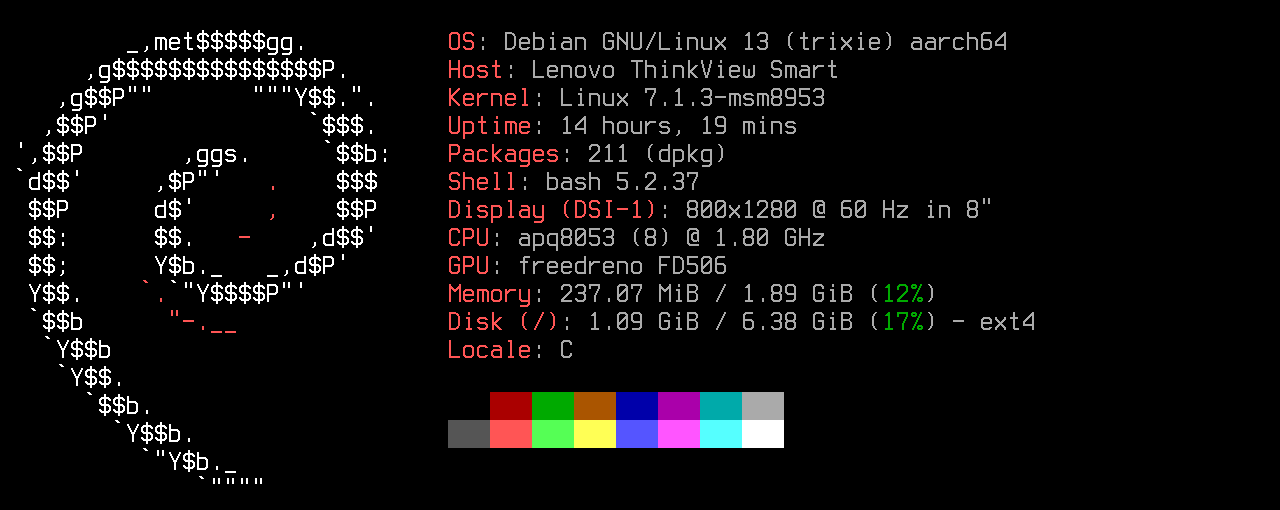
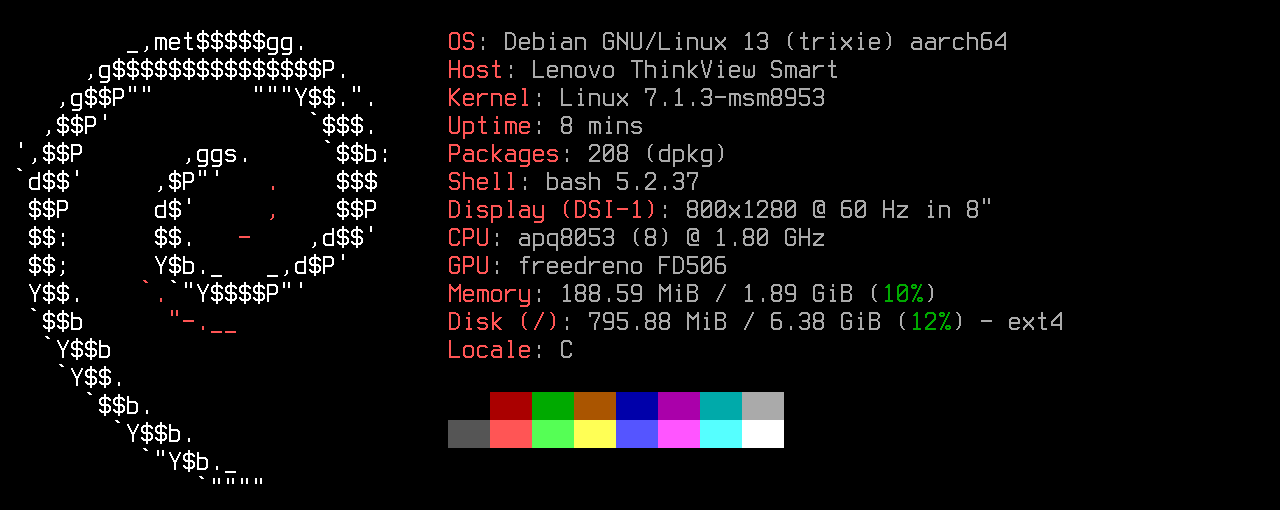
Proximity works; figures measured on a fresh flash
- thinksmart-light sets the VCNL4200 proximity part to its most sensitive
  setting (9T, 8 pulses, 200 mA): with the driver defaults it reads 0 behind
  the cover glass. The missing vled supply was not the cause.
- Measured hand distances in hardware.md, known-issues.md and the driver README.
- known-issues: poweroff turns the device back on; no battery-backed clock.
- README: ~190 MB RAM, ~470 MB on disk, ~24 s boot, new screenshot, all
  measured right after flashing this image.

Changed region(s): [[0.4375, 0.5588, 0.8438, 0.6471], [0.4375, 0.2353, 0.625, 0.3235], [0.6875, 0.5588, 0.7188, 0.5882]]

diff --git a/README.md b/README.md
@@ -30,14 +30,14 @@ application:
 
 | | |
 |---|---|
-| 🪶 **~230 MB of RAM** | used by the whole system, kernel included, with no application running: ~1.7 GB left for yours |
-| 📦 **208 Debian packages** | ~530 MB on disk with kernel modules and GPU drivers; the compressed image is ~190 MB |
+| 🪶 **~190 MB of RAM** | used by the whole system, kernel included, with no application running: ~1.7 GB left for yours |
+| 📦 **208 Debian packages** | ~470 MB on disk with kernel modules and GPU drivers; the compressed image is ~190 MB |
 | ⚙ **A handful of services** | systemd, journald, udev, NetworkManager, wpa_supplicant, ssh, timesyncd, nftables, plus the audio and light sensor setup. No desktop, no display server, no browser |
-| ⏱ **~25 s boot** | from power on to ssh (16 s kernel and initramfs, 9 s userspace) |
+| ⏱ **~24 s boot** | from power on to ssh (16 s kernel and initramfs, 7 s userspace) |
 | 🎮 **GPU without the weight** | Mesa built for this GPU only and without LLVM: ~19 MB instead of the ~170 MB of Debian's Mesa |
 | 🧱 **Plain Debian** | apt and Debian's security updates, systemd, nothing custom to learn; the whole image comes from one script you can read |
 
-<sub>Measured on our device on 2026-11-03, with no application running (the screenshot above).</sub>
+<sub>Measured on our device on 2026-11-04, right after flashing this image, with no application running (the screenshot above).</sub>
 
 ## What works
 
@@ -49,7 +49,7 @@ application:
 | 🔊 **Speaker** | TAS5782M amplifier with the out-of-tree driver, hardware volume (`Speaker Amp Master`) |
 | 🎙 **Microphones** | two digital microphones, ready for wake word and speech recognition |
 | 📶 **Wi-Fi** | QCA9379 (ath10k), NetworkManager profile from the build config |
-| 🧭 **Sensors and keys** | BMA253 accelerometer (rotation), VCNL4200 ambient light, Vol+ / Vol− keys, camera shutter switch |
+| 🧭 **Sensors and keys** | BMA253 accelerometer (rotation), VCNL4200 ambient light and proximity, Vol+ / Vol− keys, camera shutter switch |
 | 🔒 **Access** | ssh with keys only, nftables firewall open only to your LAN |
 | 🚀 **Headless boot** | ready in ~25 s, survives without a keyboard (no emergency-mode dead ends) |
 | 🧩 **Your app on top** | a customization hook adds your application to the image at build time |
@@ -95,7 +95,7 @@ The full walkthrough (backup, lk2nd, kernel files, speaker driver, Mesa, build, 
 ## Roadmap
 
 - [x] Debian 13 image on the postmarketOS 7.1.3 kernel, headless boot
-- [x] Speaker, microphones, Wi-Fi, touch, accelerometer, light sensor, keys
+- [x] Speaker, microphones, Wi-Fi, touch, accelerometer, light and proximity sensor, keys
 - [x] Customization hook for applications
 - [x] Hardware volume of the TAS5782M amplifier
 - [ ] Faster boot (initramfs framebuffer wait)

diff --git a/docs/hardware.md b/docs/hardware.md
@@ -16,7 +16,7 @@ What we found on our unit (Himax panel variant) with the postmarketOS kernel 7.1
 | Accelerometer | **Bosch BMA253** (`bmc150_accel_i2c`), `/sys/bus/iio/devices/iio:device0`, `in_accel_{x,y,z}_raw`, scale 0.019154 m/s², identity mount matrix | ok. Upright on its stand: x ≈ 0, y ≈ -9.2 m/s², z ≈ +3 (+y points down like framebuffer rows, +z out of the screen, so +x points to the panel's left). Used for screen rotation; landscape orientations are derived, not verified |
 | Keys | Vol+ = `gpio-keys` (`event0`, `KEY_VOLUMEUP`), Vol− = `pm8941_resin` (`event1`, `KEY_VOLUMEDOWN`). **No power button**. The kernel does not autorepeat them | ok |
 | Camera shutter / mic switch | camera lens cover on GPIO 87 (`SW_CAMERA_LENS_COVER`, reported by `gpio-keys`), microphone switch on GPIO 86 (switch code 4; not on every unit) | readable with `EVIOCGSW` |
-| Light / proximity sensor | **Vishay VCNL4200** at 0x51 on the sensor I²C bus (`i2c-sensors`, with the accelerometer); upstream driver `vcnl4000`, IIO device named `vcnl4000`, `in_illuminance_raw` × `in_illuminance_scale` = lux | **light ok** with the out-of-tree module ([driver/vcnl4000](../driver/vcnl4000/README.md), optional part) declared at boot by `thinksmart-light.service` (no node in the postmarketOS device tree). **Proximity reads 0**: its IR LED supply (`vled`) is not in the device tree |
+| Light / proximity sensor | **Vishay VCNL4200** at 0x51 on the sensor I²C bus (`i2c-sensors`, with the accelerometer); upstream driver `vcnl4000`, IIO device named `vcnl4000`, `in_illuminance_raw` × `in_illuminance_scale` = lux | **light ok** with the out-of-tree module ([driver/vcnl4000](../driver/vcnl4000/README.md), optional part) declared at boot by `thinksmart-light.service` (no node in the postmarketOS device tree). **proximity ok** at short range (a hand within ~30 cm) with the settings applied by the same service |
 | Camera | **Samsung S5KC505A** (5 MP, 2608×1960, RAW10 GRBG, 2 MIPI lanes at 480 MHz, CCI address 0x37, chip ID 0x5034 at register 0x0000, fixed focus, mounted at 270°). Lenovo's camera config also lists OV5693 and S5K4E8 as alternative modules | **not working**: CAMSS and CCI exist in the kernel and DT but are disabled, no sensor node and no sensor driver in 7.1.3. jethac has a driver and a DT patch (raw frames captured on 7.3) |
 | Video decoder | `venus` | fails to start on 7.1.3 (-5) |
 | USB-C | data only | no USB gadget (no network over USB) and no host mode with this kernel |

diff --git a/driver/vcnl4000/README.md b/driver/vcnl4000/README.md
@@ -17,9 +17,20 @@ d=$(grep -l '^vcnl4000$' /sys/bus/iio/devices/iio:device*/name | xargs dirname)
 cat $d/in_illuminance_raw $d/in_illuminance_scale    # lux = raw x scale
 ```
 
-**Light works; proximity reads 0.** The infrared LED of the proximity part has its own supply (`vled`), which the
-Lenovo device tree turns on and the postmarketOS one does not know about, so the driver uses a dummy regulator and
-the LED stays dark. See [docs/known-issues.md](../../docs/known-issues.md).
+**Light and proximity both work.** With the driver's defaults (integration time 1T, one pulse) proximity reads 0
+behind the cover glass, so `thinksmart-light` sets the most sensitive values the driver offers:
+
+```sh
+echo 0.000864 > $d/in_proximity_integration_time   # 9T
+echo 8        > $d/in_proximity_oversampling_ratio  # 8 LED pulses per measurement
+echo 0.200000 > $d/in_proximity_calibbias           # LED current 200 mA
+cat $d/in_proximity_raw                             # counts / 16 (the driver divides by 16)
+```
+
+Measured on our device (counts = raw x 16): ~35 at rest, ~60-100 with a hand at 30 cm, ~100-170 at 10 cm, over 1500
+at 2-3 cm. The IR LED (faintly red to the eye) is on only while the sensor is being read: runtime PM shuts the
+proximity part down between reads, so a program polling it a few times per second keeps it lit, and nothing reading it
+keeps it dark.
 
 ## Building
 

diff --git a/docs/known-issues.md b/docs/known-issues.md
@@ -29,6 +29,10 @@
 - lk2nd supports a **single entry** in `extlinux.conf`.
 - Harmless messages: `Failed to set OPP config` on cpu0, `psci: failed to set PC mode`, `venus` -5.
 - No suspend.
+- **`poweroff` turns the device back on** after a few seconds while the power supply is plugged in (there is no
+  battery and no power button). To switch it off: `poweroff`, then unplug the power within ~10 s.
+- **No battery-backed clock**: until `systemd-timesyncd` gets the time from the network, the clock starts from the
+  last saved time, so the first lines of each boot in the journal can carry an old date.
 
 ## Screen
 
@@ -40,8 +44,10 @@
 
 ## Sensors
 
-- Proximity always reads 0: the VCNL4200 IR LED supply (`vled`) is missing from the postmarketOS device tree, so
-  the driver uses a dummy regulator. The ambient light part works ([driver/vcnl4000](../driver/vcnl4000/README.md)).
+- Proximity is short-range: behind the cover glass it reads ~35 at rest, ~60-100 for a hand at 30 cm, ~100-170 at
+  10 cm and over 1500 at 2-3 cm (with the settings `thinksmart-light.service` applies, see
+  [driver/vcnl4000](../driver/vcnl4000/README.md)). Reliable for "a hand in front of the screen", not for "someone in
+  the room". With the driver's own defaults it reads 0.
 
 ## Not done yet
 
